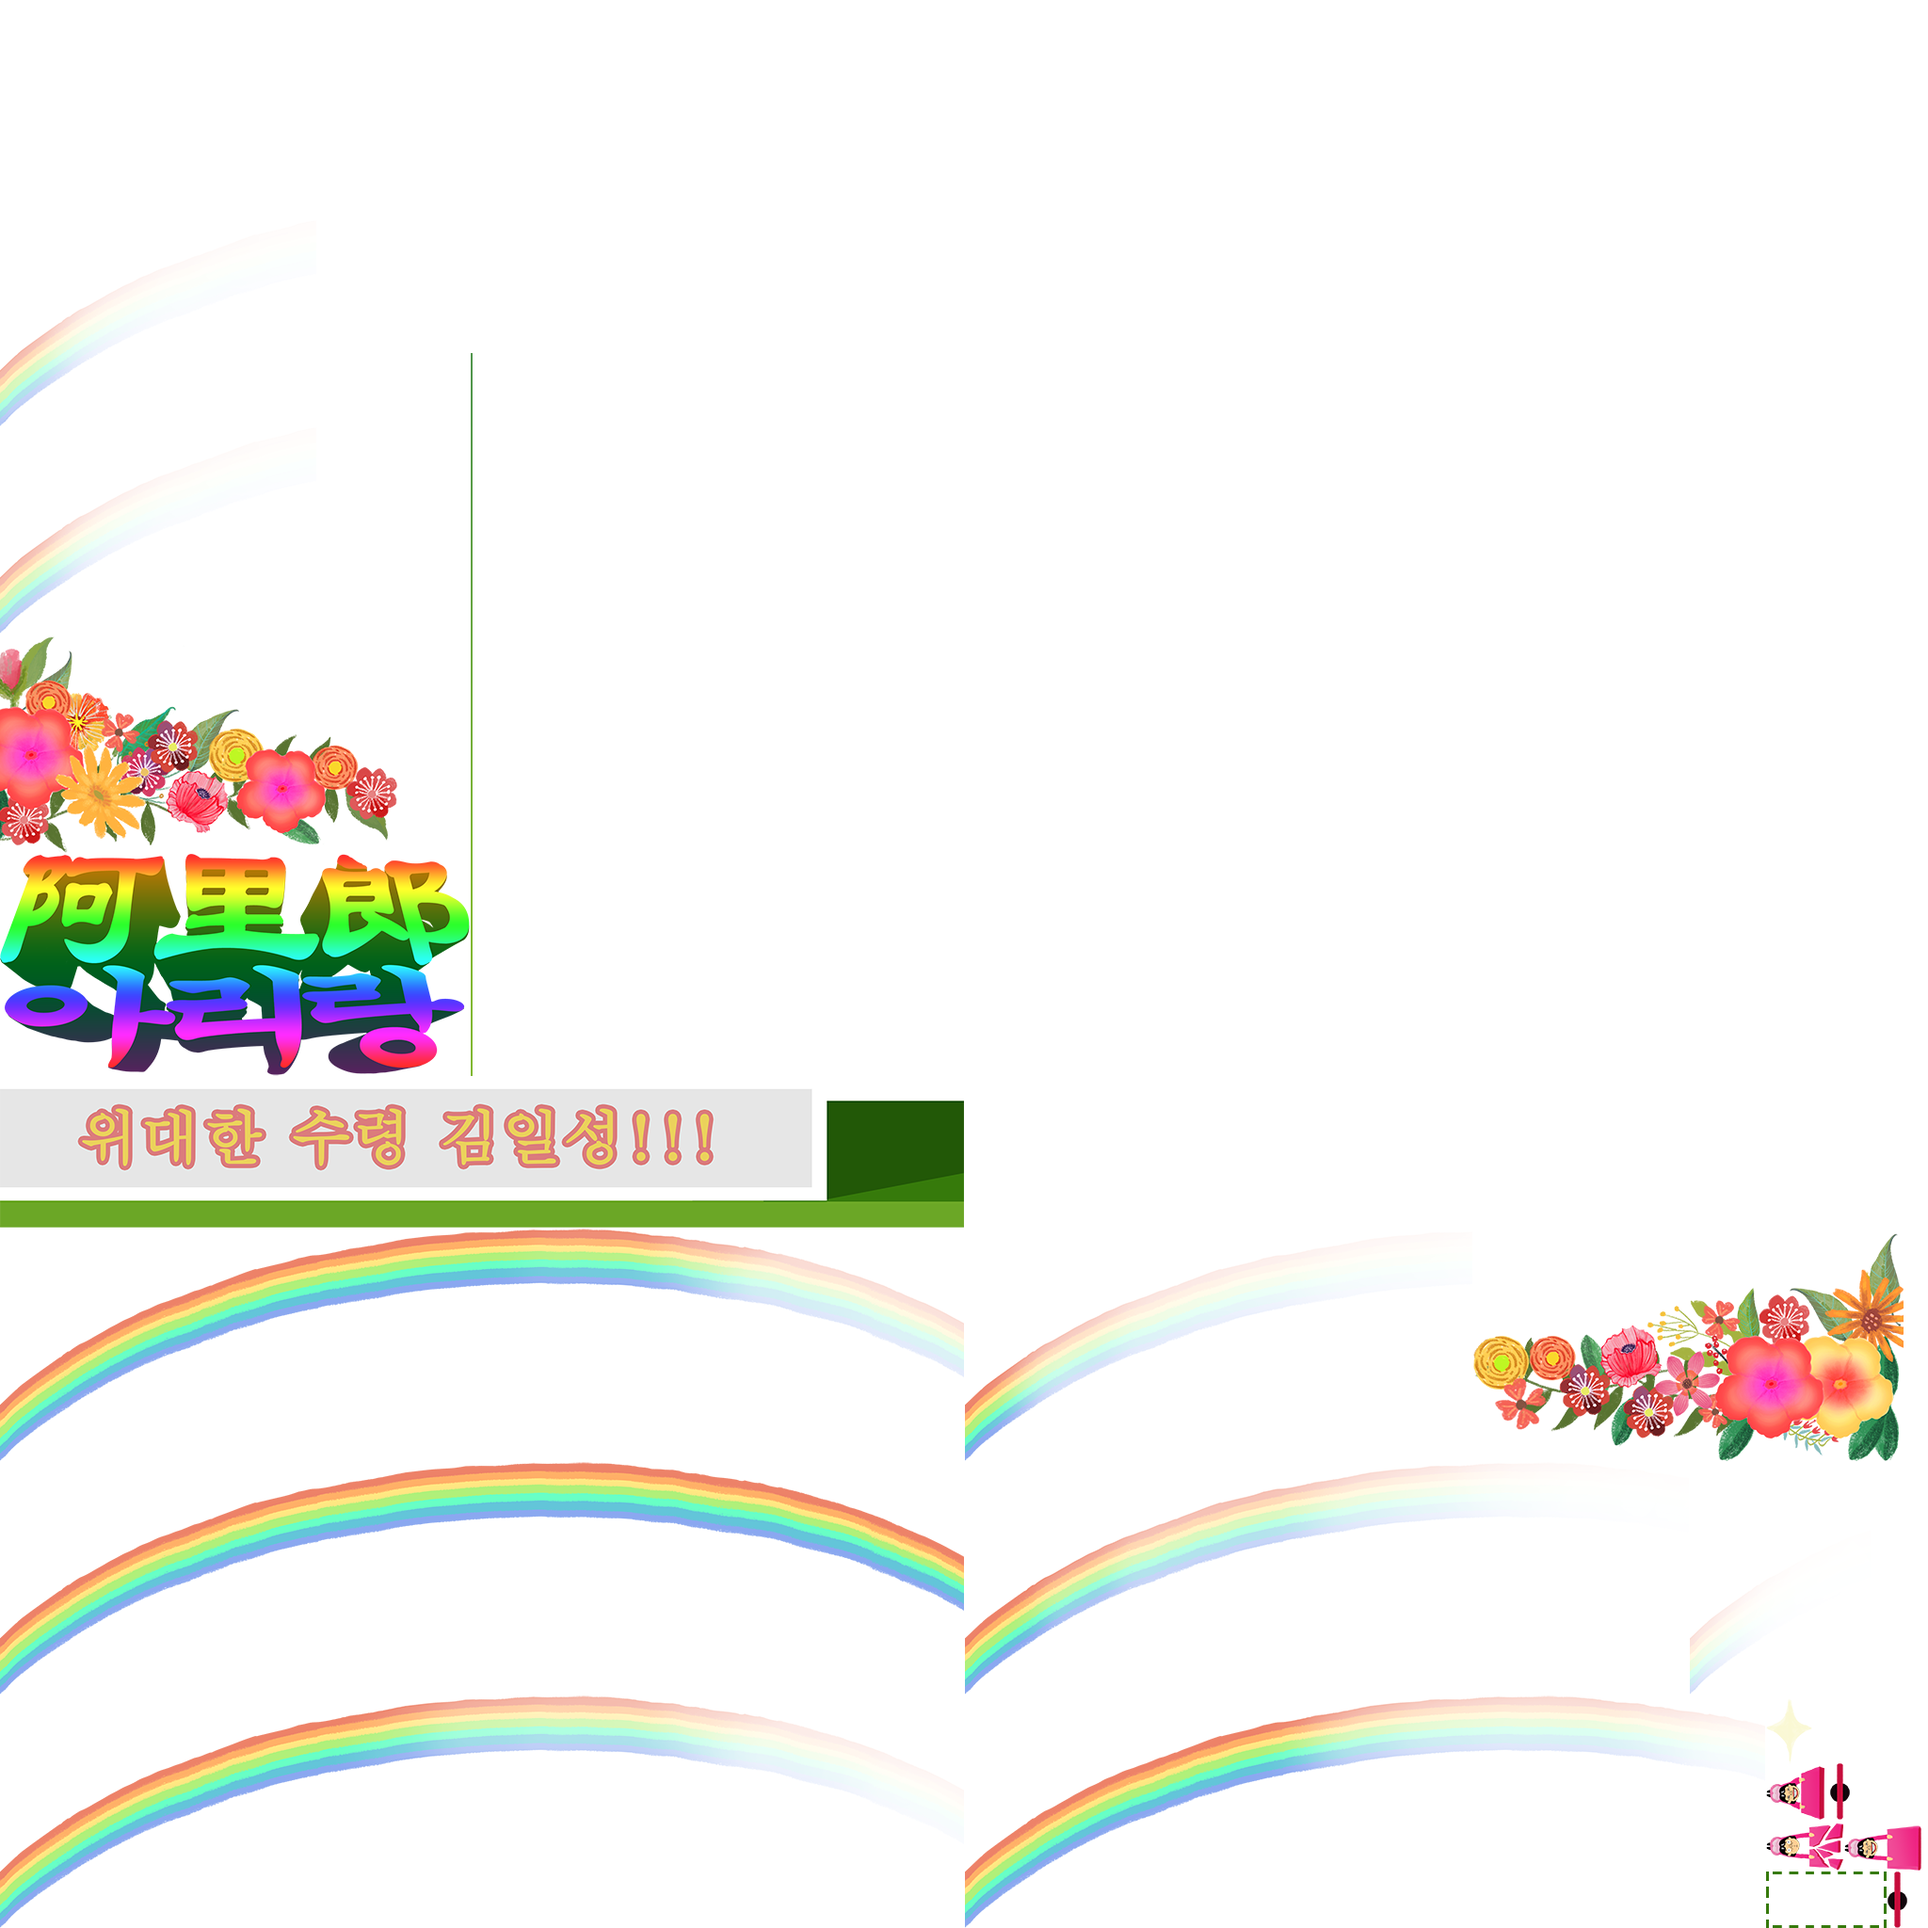
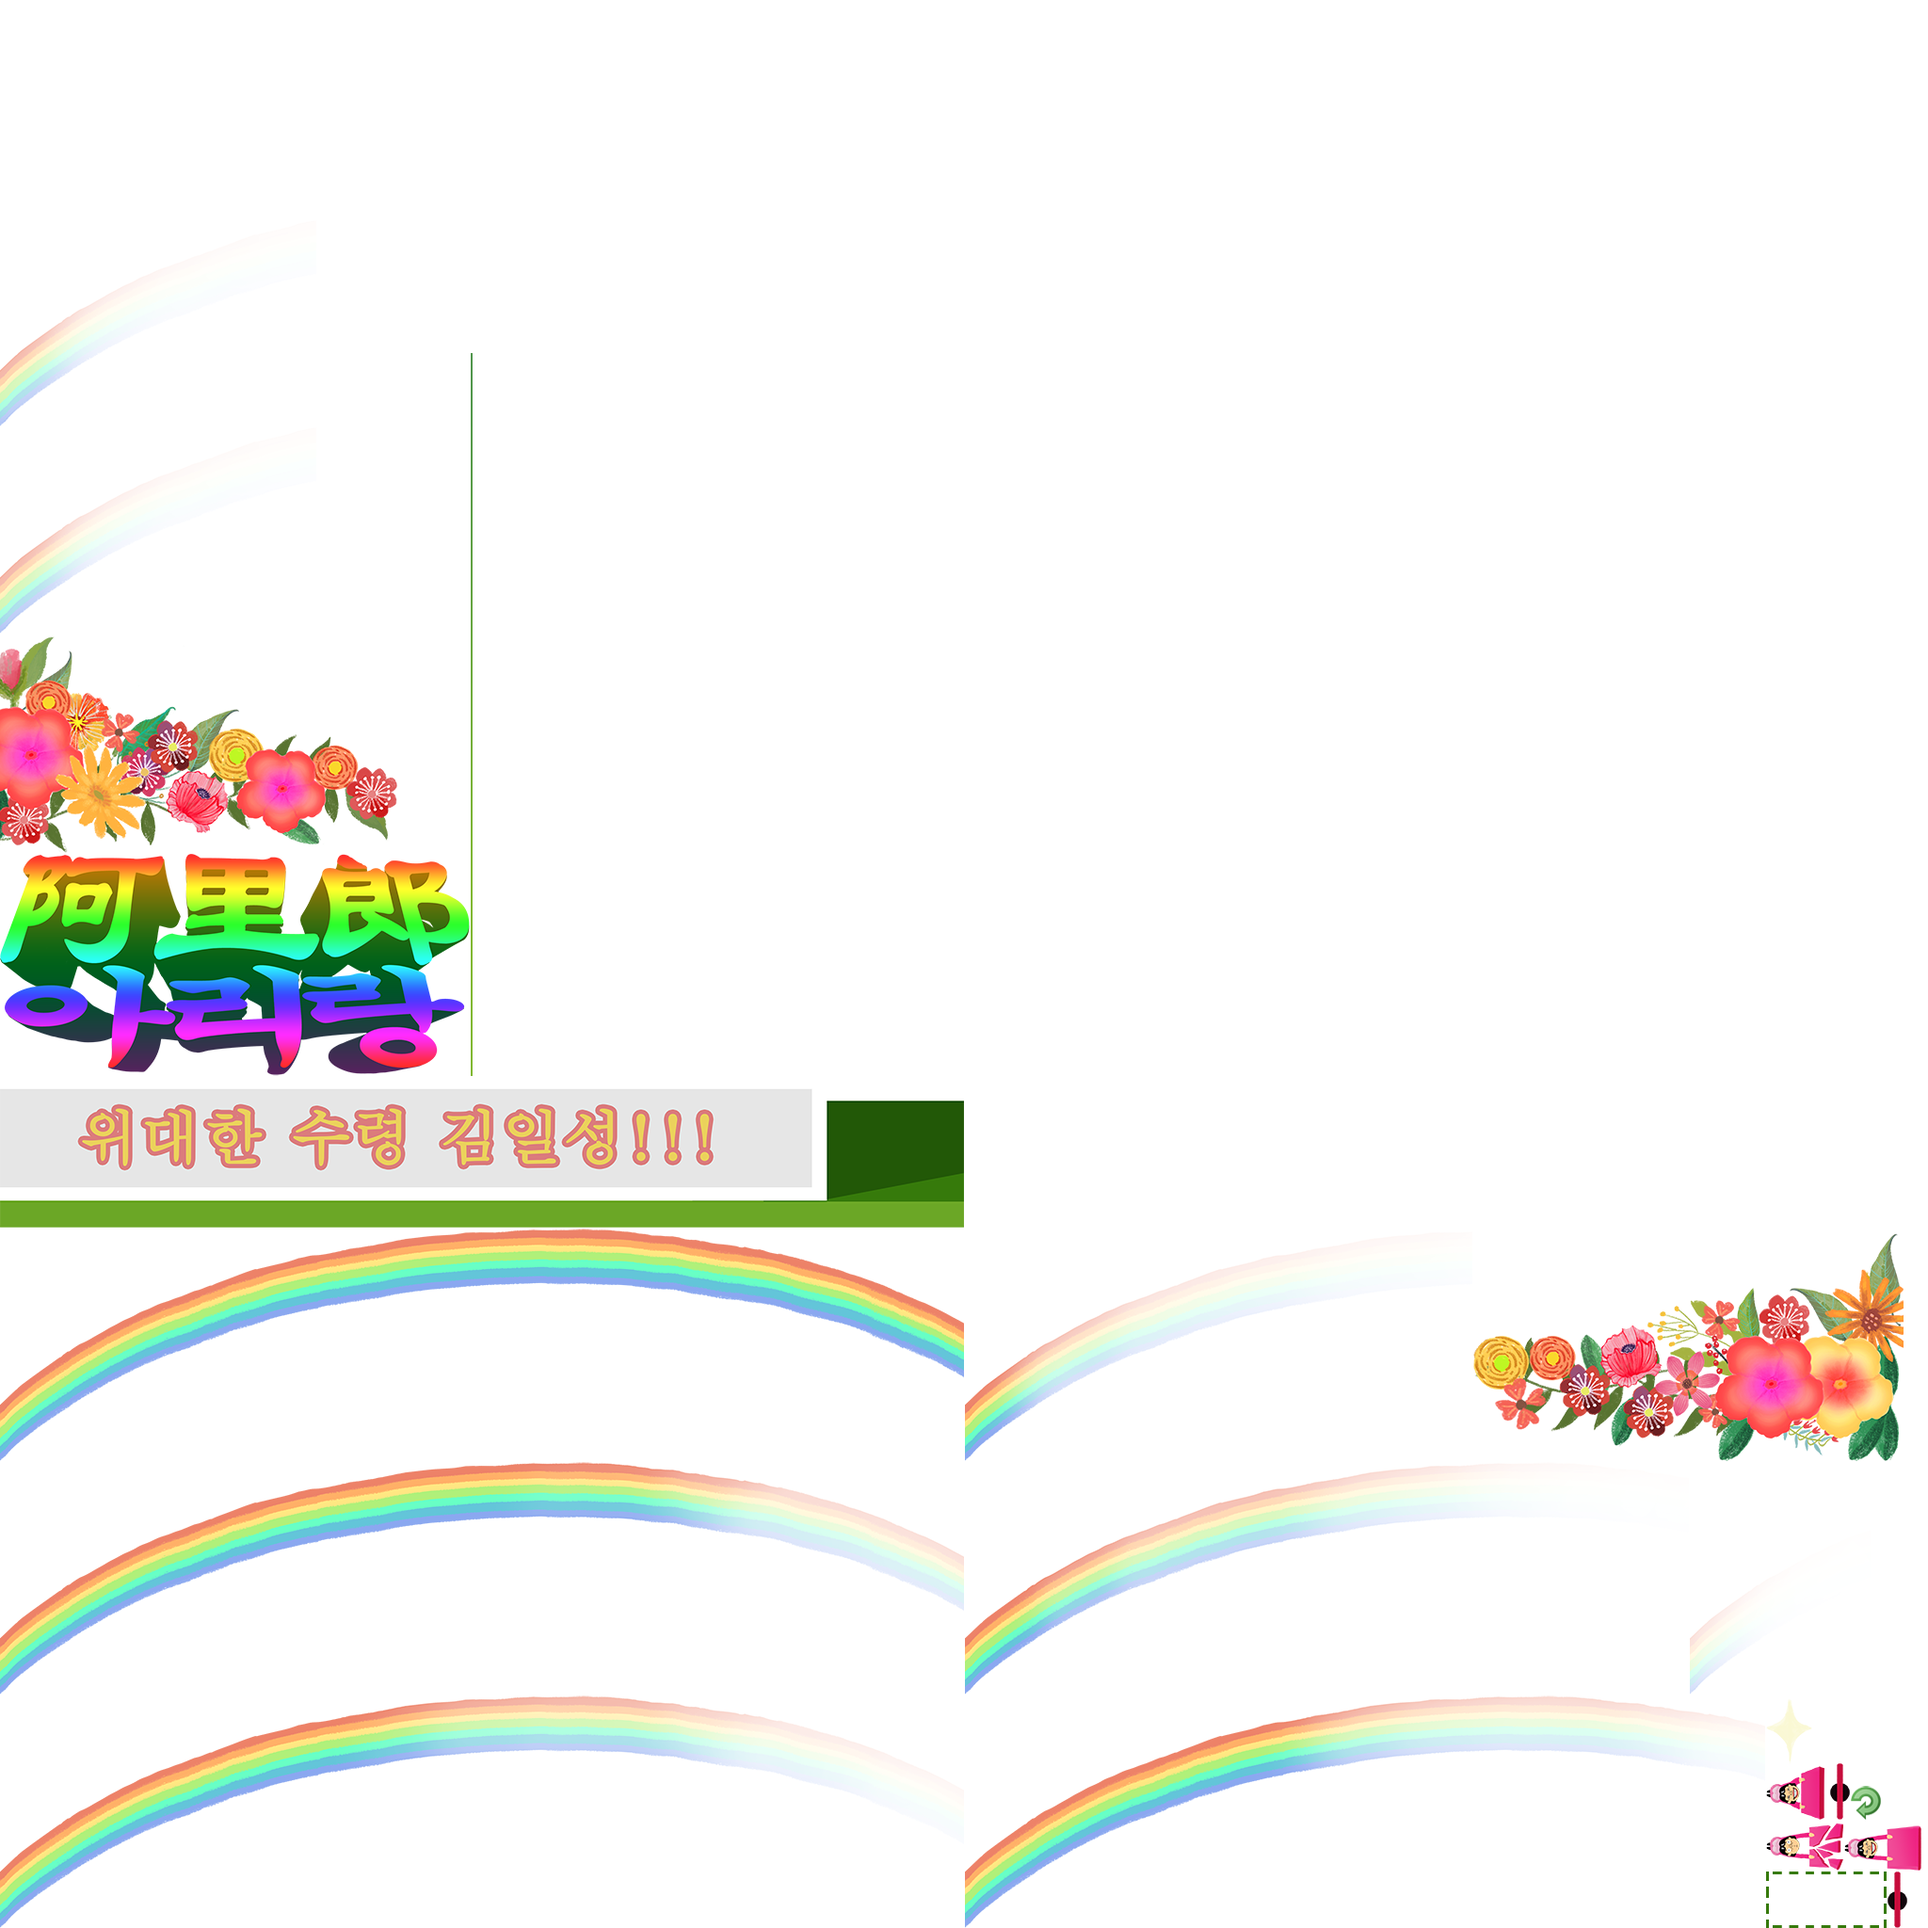
domino rotate operation changed

Changed region(s): [[0.3125, 0.75, 0.5, 0.8438], [0.3438, 0.625, 0.5, 0.7188]]

diff --git a/Domino/Assets/Script/GameLogic/Domino.cs b/Domino/Assets/Script/GameLogic/Domino.cs
@@ -7,6 +7,7 @@ public class Domino : MonoBehaviour
     public const int STATE_LAY = 1;
     public const int STATE_OVERLAY = 2;
     public const int STATE_LAYING = 3;
+    public const int STATE_ROTATION = 4;
 
     public GameObject m_imgStand;
     public GameObject m_imgOverlay;
@@ -14,6 +15,7 @@ public class Domino : MonoBehaviour
     public GameObject m_hintFrame;
     public SpriteAnim m_aniDowning;
     public Transform m_aniContainer;
+    public Transform m_flagRotate;
     public UIDragObject m_dragObject;
     public float m_blockLength;
 
@@ -32,6 +34,7 @@ public class Domino : MonoBehaviour
         SetAngle(0.0f);
         m_hintFrame.SetActive(false);
         m_aniDowning.gameObject.SetActive(false);
+        m_flagRotate.gameObject.SetActive(false);
 	}
 	
 	// Update is called once per frame
@@ -54,6 +57,19 @@ public class Domino : MonoBehaviour
             else
             {
                 m_hintFrame.SetActive(false);
+            }
+        }
+        else if( m_state == STATE_ROTATION )
+        {
+            if( Input.GetKey( KeyCode.LeftArrow ) || Input.GetKey( KeyCode.A ) )
+            {
+                SetAngle(m_angle + 1.5f);
+                m_flagRotate.localScale = new Vector3(-1.0f, 1.0f, 1.0f);
+            }
+            else if( Input.GetKey( KeyCode.RightArrow ) || Input.GetKey( KeyCode.D ) )
+            {
+                SetAngle(m_angle - 1.5f);
+                m_flagRotate.localScale = Vector3.one;
             }
         }
 	}
@@ -114,11 +130,26 @@ public class Domino : MonoBehaviour
     }
 
     /// <summary>
-    /// rotation the domino 
+    /// rotate the domino by double click 
     /// </summary>
     public void onEditRotation()
     {
-        SetAngle(m_angle + 30.0f);
+        if( m_state == STATE_STAND )
+        {
+            // enter rotation mode 
+            m_flagRotate.gameObject.SetActive(true);
+
+            m_state = STATE_ROTATION;
+            m_dragObject.enabled = false;
+        }
+        else if( m_state == STATE_ROTATION )
+        {
+            // leave rotation mode 
+            m_flagRotate.gameObject.SetActive(false);
+
+            m_state = STATE_STAND;
+            m_dragObject.enabled = true;
+        }
     }
 
     /// <summary>
